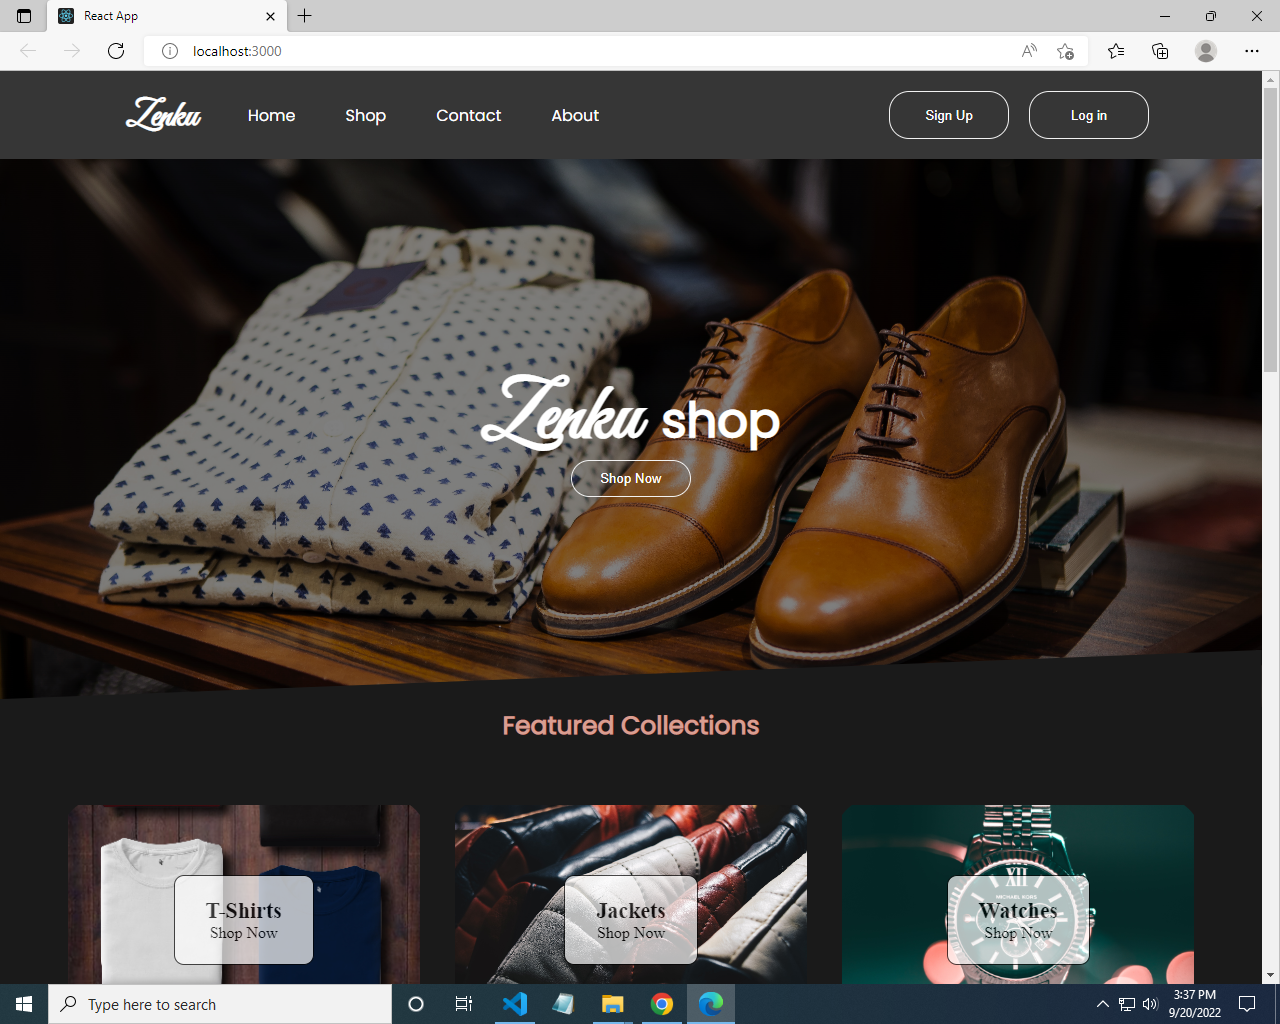
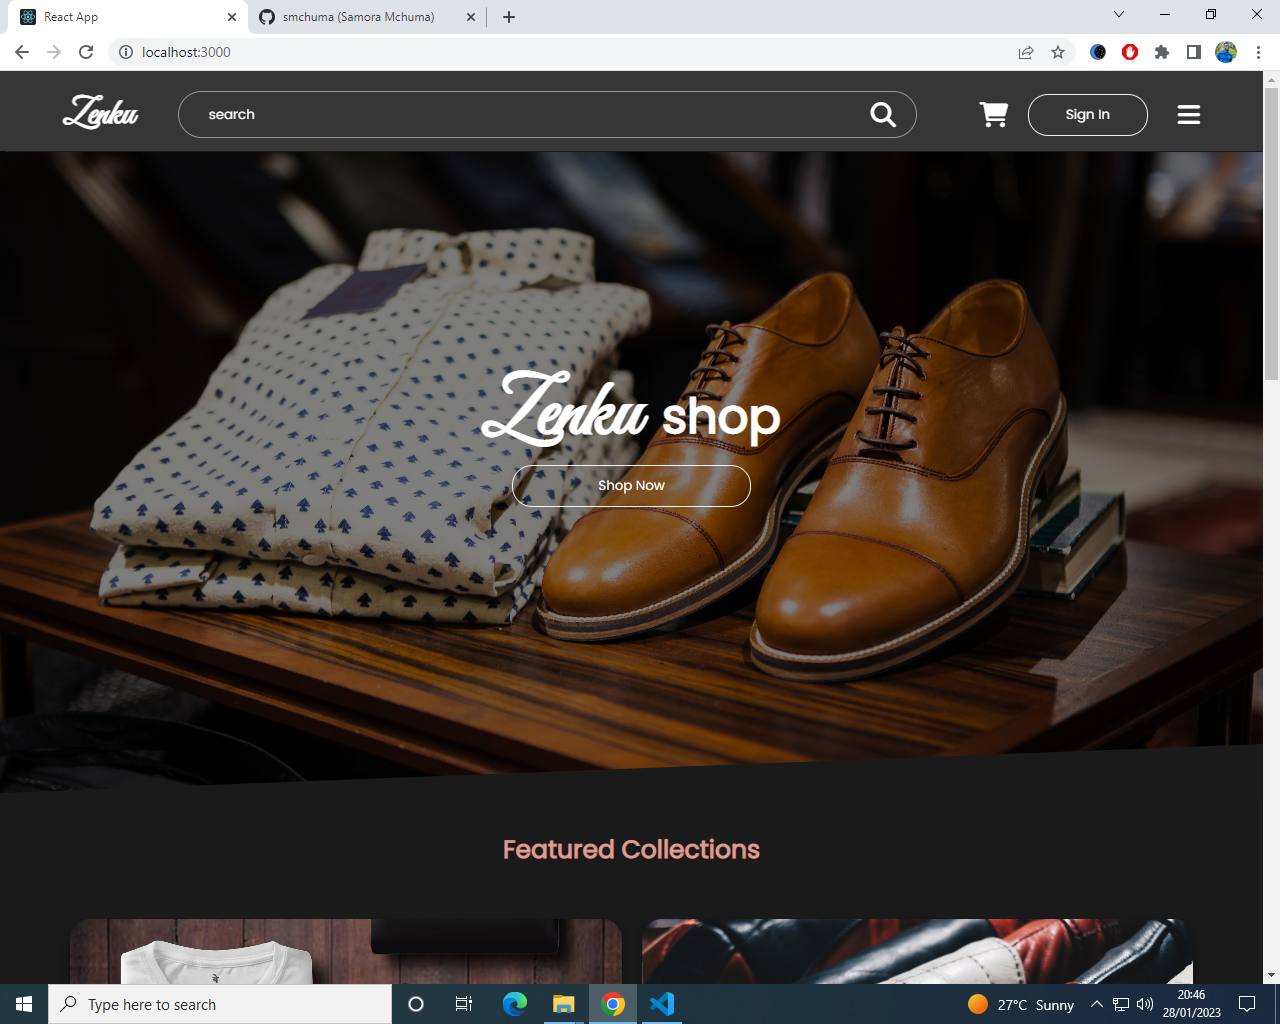
continuing creating shop page

diff --git a/src/components/Navbar/Navbar.scss b/src/components/Navbar/Navbar.scss
@@ -4,59 +4,66 @@
   background-color: #363636;
   padding: 20px 0;
   box-shadow: 5px 1px #1a1a1a;
+  position: fixed;
+  z-index: 1;
+  width: 100%;
+  height: 80px;
 
   nav {
     display: flex;
     justify-content: space-between;
+    align-items: center;
     color: $secondary-color;
+    width: 90%;
+    margin: auto;
 
     .logo {
       font-size: 1.5rem;
       cursor: pointer;
-      padding-top: 3px;
-      margin-left: 50px;
 
       h1 {
         font-family: $font-italic;
       }
     }
 
-    .nav-links {
-      padding-top: 12px;
+    .nav-search {
+      border: 1px solid #989898;
+      border-radius: 30px;
+      width: 65%;
+      padding: 10px;
+      display: flex;
+      align-items: center;
 
-      ul {
-        display: flex;
-        list-style-type: none;
-        padding-right: 280px;
-        cursor: pointer;
+      i {
+        font-size: 25px;
+        margin-right: 10px;
+      }
 
-        li {
-          margin-left: 50px;
-          font-family: $font-main;
-          transition: 1s ease;
-          &:hover {
-            transform: scale(1.2);
-            color: $quaternary-color;
-          }
+      input {
+        width: 100%;
+        border: none;
+        outline: none;
+        background-color: transparent;
+        padding: 0px 20px;
+
+        &::placeholder {
+          color: white;
         }
       }
     }
     .button-cart {
       display: flex;
-      margin-right: 60px;
 
       button {
-        margin-top: 5px;
+        margin-left: 20px;
       }
 
       i {
+        display: flex;
+        align-items: center;
+        justify-content: center;
         font-size: 25px;
-        margin-top: 11px;
-        margin-right: 15px;
         cursor: pointer;
-      }
-
-      span i {
         margin-left: 20px;
       }
     }

diff --git a/src/components/ProductCard/ProductCard.scss b/src/components/ProductCard/ProductCard.scss
@@ -5,34 +5,35 @@
   transition: 0.4s;
 
   .content {
-    width: 100%;
+    display: flex;
+    flex-direction: column;
+    align-items: center;
     padding: 20px;
     box-shadow: 0 14px 28px rgba(0, 0, 0, 0.25), 0 10px 10px rgba(0, 0, 0, 0.22);
     border-radius: 20px;
     background-color: #363535;
     cursor: pointer;
 
+    h3 {
+      margin-top: 20px;
+    }
+
     img {
       width: 200px;
       height: 200px;
     }
 
-    h3 {
-      text-align: center;
-    }
-
     .details {
       button {
-        width: 100%;
-        text-align: center;
+        width: 180px;
         color: white;
         padding: 10px;
-        border: 1px solid white;
+        border: 1px solid #989898;
         outline: none;
         cursor: pointer;
         background-color: transparent;
-        border-radius: 15px;
-        margin-top: 10px;
+        border-radius: 30px;
+        margin-top: 20px;
         transition: 0.4s;
       }
 

diff --git a/src/components/Navbar/Navbar.jsx b/src/components/Navbar/Navbar.jsx
@@ -16,21 +16,9 @@ const Navbar = () => {
               <h1>Zenku</h1>
             </Link>
           </div>
-          <div className="nav-links">
-            <ul>
-              <Link to="/">
-                <li>Home</li>
-              </Link>
-              <Link to="/shop">
-                <li>Shop</li>
-              </Link>
-              <Link to="/contact">
-                <li>Contact</li>
-              </Link>
-              <Link to="/about">
-                <li>About</li>
-              </Link>
-            </ul>
+          <div className="nav-search">
+            <input type="search" placeholder="search" />
+            <i class="fa-solid fa-magnifying-glass"></i>
           </div>
           <div className="button-cart">
             <i className="fa-solid fa-cart-shopping"></i>

diff --git a/src/pages/Shop/Shop.jsx b/src/pages/Shop/Shop.jsx
@@ -6,16 +6,18 @@ import "./Shop.scss";
 const Shop = () => {
   const { products } = useContext(ProductsContext);
   return (
-    <div className="products">
-      <div className="products-banner">
-        <h1>T-Shirts</h1>
+    <>
+      <div className="products">
+        <div className="products-banner">
+          <h1>T-Shirts</h1>
+        </div>
+        <div className="products-container">
+          {products.map((product) => (
+            <ProductCard key={product.id} product={product} />
+          ))}
+        </div>
       </div>
-      <div className="products-container">
-        {products.map((product) => (
-          <ProductCard key={product.id} product={product} />
-        ))}
-      </div>
-    </div>
+    </>
   );
 };
 

diff --git a/src/App.js b/src/App.js
@@ -2,7 +2,7 @@ import React from "react";
 import { Route, Routes } from "react-router-dom";
 import "./App.scss";
 import { Footer, Navbar, SignIn, SignUp } from "./components";
-import { Home, Shop, About } from "./pages";
+import { Home, Shop } from "./pages";
 
 const App = () => {
   return (
@@ -11,7 +11,6 @@ const App = () => {
       <Routes>
         <Route path="/" element={<Home />} />
         <Route path="/shop" element={<Shop />} />
-        <Route path="/about" element={<About />} />
         <Route path="/sign-in" element={<SignIn />} />
         <Route path="/sign-up" element={<SignUp />} />
       </Routes>

diff --git a/src/pages/Shop/Shop.scss b/src/pages/Shop/Shop.scss
@@ -1,8 +1,10 @@
 @import "../../scss/config";
 
 .products {
-  width: 100%;
+  top: 100px;
+  position: relative;
   padding-bottom: 120px;
+
   &-banner {
     height: 40vh;
     display: flex;
@@ -12,8 +14,9 @@
       url("https://res.cloudinary.com/smchuma/image/upload/v1674566854/t-shirt_w1bjr9.jpg");
     background-position: center;
     background-size: cover;
-    border: 1px solid #363535;
-    margin: 30px;
+    border-radius: 1px solid #989898;
+    margin: 0 20px;
+    margin-bottom: 20px;
     border-radius: 20px;
   }
 

diff --git a/src/pages/Home/Home.jsx b/src/pages/Home/Home.jsx
@@ -1,4 +1,5 @@
 import React from "react";
+import { Link } from "react-router-dom";
 import { Banner, Categories } from "../../components";
 import "./Home.scss";
 
@@ -10,7 +11,9 @@ const Home = () => {
           <h1>
             Zenku <span>shop</span>
           </h1>
-          <button className="btn-primary">Shop Now</button>
+          <Link to="/shop">
+            <button className="btn-primary">Shop Now</button>
+          </Link>
         </div>
         <div className="shape-divider">
           <svg

diff --git a/src/components/Sign-in/SignIn.scss b/src/components/Sign-in/SignIn.scss
@@ -1,8 +1,10 @@
 .form-input {
+  top: 100px;
+  position: relative;
   display: flex;
   flex-direction: column;
   align-items: center;
-  margin-top: 50px;
+  height: 80vh;
   font-family: "Poppins", sans-serif;
 
   h1 {
@@ -10,6 +12,7 @@
   }
 
   .form {
+    margin-top: 50px;
     form {
       display: flex;
       flex-direction: column;

diff --git a/src/components/Footer/Footer.scss b/src/components/Footer/Footer.scss
@@ -9,7 +9,7 @@
   justify-content: center;
   flex-direction: column;
   color: white;
-  height: 40vh;
+  height: 25vh;
   text-align: center;
   .links {
     display: flex;

diff --git a/src/pages/index.js b/src/pages/index.js
@@ -1,3 +1,2 @@
 export { default as Home } from "./Home/Home";
-export { default as About } from "./About us/About";
 export { default as Shop } from "./Shop/Shop";

diff --git a/src/pages/Home/Home.scss b/src/pages/Home/Home.scss
@@ -26,7 +26,7 @@
     }
 
     button {
-      margin-top: -10px;
+      width: 80%;
     }
   }
 }

diff --git a/README.md b/README.md
@@ -5,3 +5,7 @@ Zenku E-Commerce Clothing Shop. Created with React, Sass and Firebase
 ![Screenshot1](./public//assets/images/2.png)
 
 ![Screenshot1](./public/assets/images/3.png)
+
+![Screenshot1](./public/assets/images/4.png)
+
+![Screenshot1](./public/assets/images/5.png)
